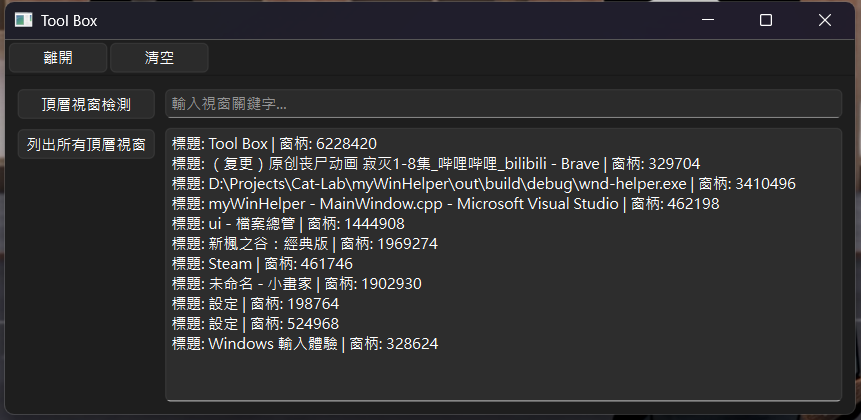
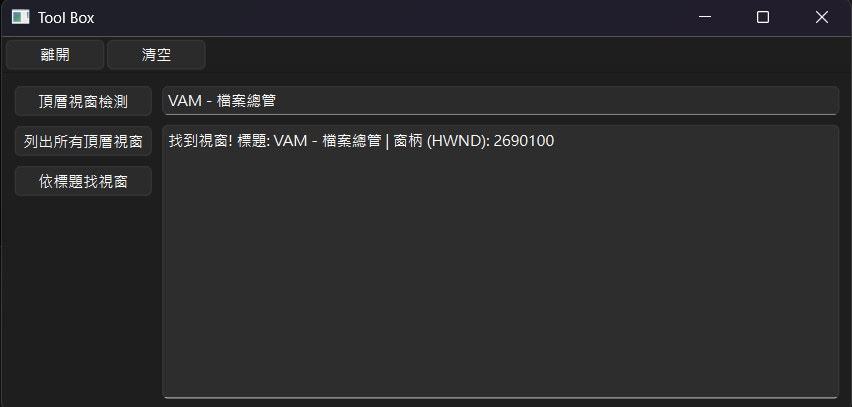
docs:update readme

diff --git a/README.md b/README.md
@@ -2,7 +2,7 @@
 * [WIP] UI: 用Qt完成基本的介面
 * [TODO -> DONE] 補回功能函式: CLI上運行的功能都沒辦法用了，等UI完成再補回;補完原本的函式功能。
 * [TODO -> DONE] 顯示當前作業統所有的視窗標題
-* [TODO] 以視窗標題或窗柄搜尋視窗
+* [TODO -> DONE] 以視窗標題或窗柄搜尋視窗
 * [TODO] 放大鏡:
 * [TODO] 顏色採樣:
 * [TODO] 以HWND採樣目標視窗並單獨顯示
